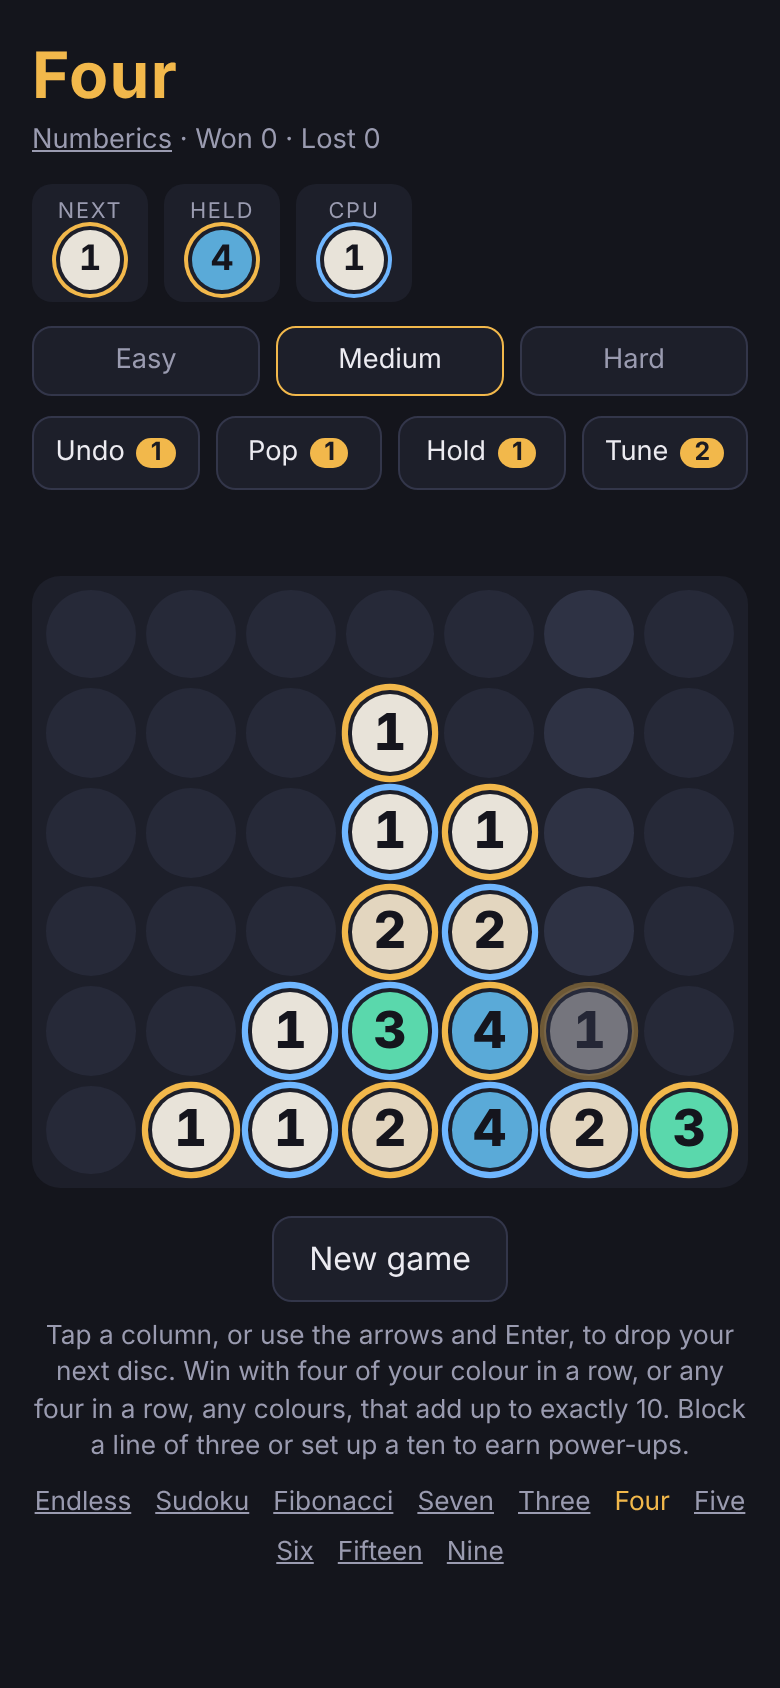
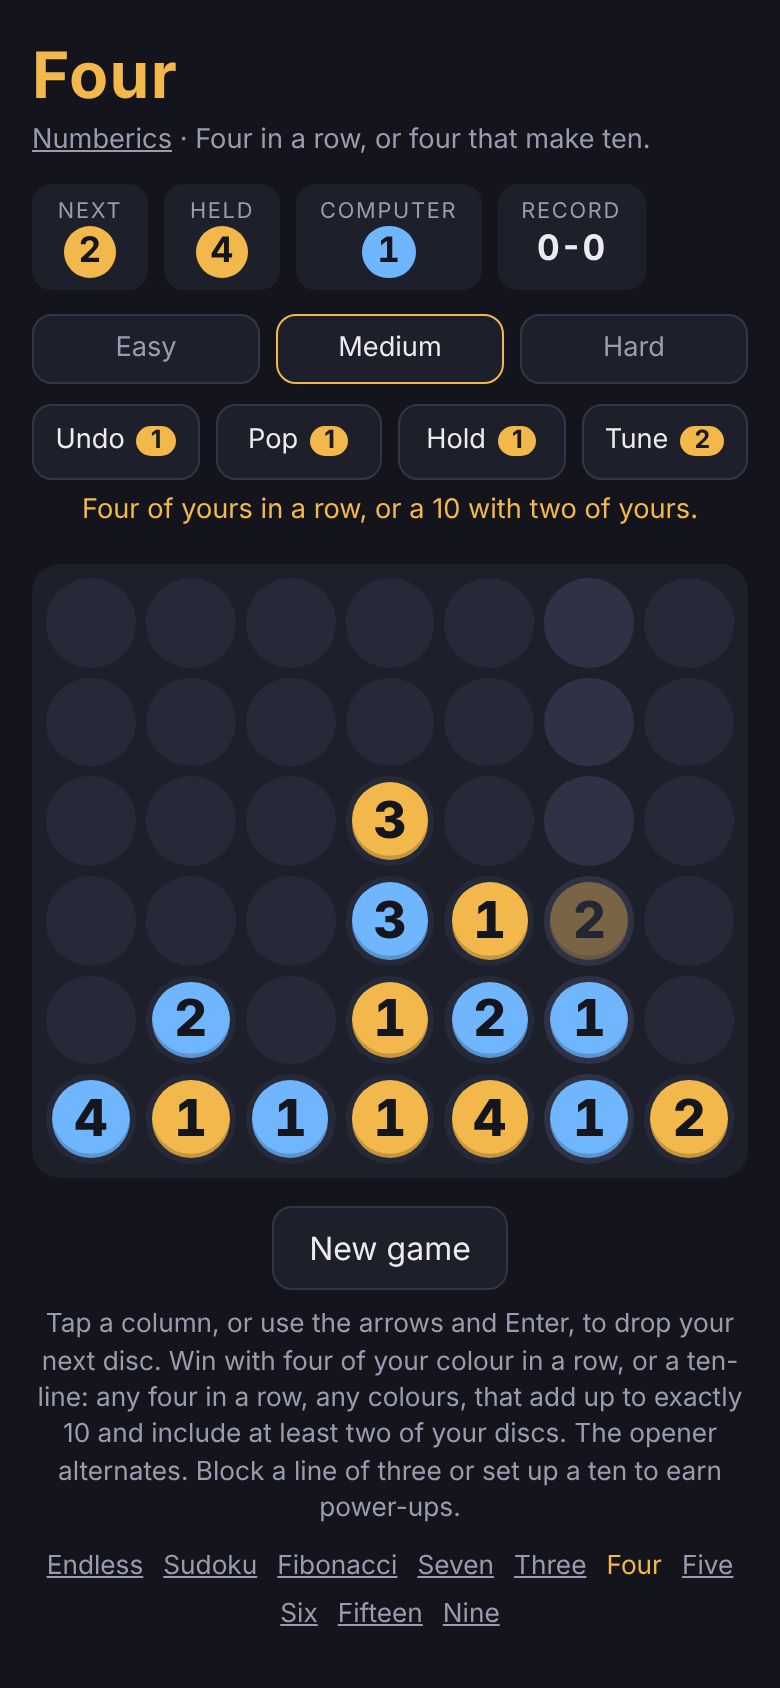
Four: round 1 fixes; DESIGN.md records round 1; all screenshots refreshed
Four: ten-lines need two of the completer's discs, owner-filled discs, clear
winning line, alternating opener, tuned levels (safe-move bot 68/44/29%),
keyboard Pop, R1/R5-R11. tools/measure-four.js reproduces the numbers.
Endless toast check follows the board-anchored toast.

diff --git a/tests/test-four.js b/tests/test-four.js
@@ -134,20 +134,20 @@ t("the computer takes an immediate ten-line", () => {
   const s = board([[0, 1, 1, 4], [0, 2, 2, 2], [0, 3, 1, 1]], { turn: 2, next: [1, 3] });
   for (const lv of ["easy", "medium", "hard"]) { s.level = lv; const r = F.computerTurn(s); eq(r.state.over && r.state.over.type, "ten", lv); eq(r.state.over.winner, 2); }
 });
-// blocks: Hard on every turn it is not loose; Easy and Medium play loose turns (tuned), so they are measured over seeds
+// blocks: Hard unless it blunders (a rare loose turn, tuned); Easy and Medium play loose turns (tuned), so they are measured over seeds
 function blockRate(s, lv, col) {
   let n = 0; for (let k = 0; k < 100; k++) { const x = JSON.parse(JSON.stringify(s)); x.level = lv; x.aiSeed = k * 7919 + 1;
     const r = F.computerTurn(x); if (r.actions[r.actions.length - 1].arg === col) n++; }
   return n / 100;
 }
-t("the computer blocks an immediate colour loss (Hard always, Medium mostly, Easy often)", () => {
+t("the computer blocks an immediate colour loss (Hard nearly always, Medium mostly, Easy often)", () => {
   const s = board([[0, 0, 1, 1], [1, 0, 1, 1], [2, 0, 1, 1], [0, 3, 2, 1], [0, 4, 2, 2]], { turn: 2, next: [1, 1] });
-  eq(blockRate(s, "hard", 0), 1, "hard"); ok(blockRate(s, "medium", 0) >= 0.75, "medium"); ok(blockRate(s, "easy", 0) >= 0.4, "easy");
+  ok(blockRate(s, "hard", 0) >= 0.9, "hard"); ok(blockRate(s, "medium", 0) >= 0.75, "medium"); ok(blockRate(s, "easy", 0) >= 0.4, "easy");
 });
 t("the computer blocks an immediate ten-line loss (the player holds the 3 it needs)", () => {
   // (0,1..3) = 4 2 1 needs a 3 at (0,4); (0,0) is filled so that is the only hole; two of them are the player's
   const s = board([[0, 0, 2, 1], [0, 1, 1, 4], [0, 2, 2, 2], [0, 3, 1, 1]], { turn: 2, next: [3, 1] });
-  eq(blockRate(s, "hard", 4), 1, "hard"); ok(blockRate(s, "medium", 4) >= 0.75, "medium"); ok(blockRate(s, "easy", 4) >= 0.4, "easy");
+  ok(blockRate(s, "hard", 4) >= 0.9, "hard"); ok(blockRate(s, "medium", 4) >= 0.75, "medium"); ok(blockRate(s, "easy", 4) >= 0.4, "easy");
 });
 t("Easy is deterministic by seed", () => {
   const run = seed => { let s = F.newGame(seed, { level: "easy" }), cols = [];
@@ -297,6 +297,26 @@ t("measure: Medium beats a random player almost always", () => {
     if (s.over.winner === 2) w++; }
   ok(w >= 26, "medium won " + w + "/30");
 });
+
+// Round 1 tuning target (TRIAGE1): a safe-move player (wins in one when it can, otherwise a random column that leaves
+// the computer no immediate line for its shown disc; no power-ups; the opener alternates) beats Easy >= 65%, Medium
+// 40-55%, Hard 20-35%. Measured over 400 games each (see the round 1 report); these are loose, fast guards.
+function safeBot(s, rs) {
+  const L = F.legal(s), n = s.next[0];
+  for (const c of L) if (F.linesAt(s.own, s.num, F.height(s.own, c) * C + c, 1, n).length) return [c, rs];
+  const safe = L.filter(c => { const own = s.own.slice(), num = s.num.slice(), h = F.height(own, c); own[h * C + c] = 1; num[h * C + c] = n;
+    for (let k = 0; k < C; k++) { const hk = F.height(own, k); if (hk < 6 && F.linesAt(own, num, hk * C + k, 2, s.next[1]).length) return false; } return true; });
+  const pool = safe.length ? safe : L, r = F.rand(rs); return [pool[Math.floor(r[0] * pool.length)], r[1]];
+}
+function botRate(lv, games) {
+  let w = 0, rs = 12345;
+  for (let g = 0; g < games; g++) { let s = F.newGame(1000 + g, { level: lv, first: g % 2 ? 2 : 1 });
+    while (!s.over) { if (s.turn === 1) { let c; [c, rs] = safeBot(s, rs); s = F.drop(s, c).state; } else s = F.computerTurn(s).state; }
+    if (s.over.winner === 1) w++; }
+  return w / games;
+}
+t("balance: a safe-move player beats Easy most of the time (target >= 65%)", () => { const r = botRate("easy", 200); ok(r >= 0.6, "easy " + r); });
+t("balance: a safe-move player beats Medium about half the time (target 40-55%)", () => { const r = botRate("medium", 60); ok(r >= 0.28 && r <= 0.65, "medium " + r); });
 
 require("./conventions")(t, ok, ["four/engine.js", "four/game.js", "four/index.html", "four/style.css"]);
 console.log(pass + " passed, " + fail + " failed");

diff --git a/tools/measure-four.js b/tools/measure-four.js
@@ -1,0 +1,28 @@
+/* SPDX-License-Identifier: Apache-2.0 | Copyright 2026 alvations (Melon Lab)
+ * Four difficulty measurement (safe-move bot vs each level).
+ * node tools/measure-four.js [games] [easy,medium,hard]   TUNE=<json> overrides level settings. */
+const F = require("../four/engine.js");
+const C = F.COLS; if (process.env.TUNE) { const t = JSON.parse(process.env.TUNE); for (const k in t) Object.assign(F._LV[k], t[k]); }
+// safe-move player: wins now if it can; else picks a column (seeded random, centre-weighted) after which the
+// computer's shown disc has no immediate win; random legal if none is safe. No power-ups.
+function winsAt(s, own, num, side, n) { for (const c of F.legal(s)) { const h = F.height(own, c); if (h < 6 && F.linesAt(own, num, h * C + c, side, n).length) return c; } return -1; }
+function safeBot(s, rs) {
+  const L = F.legal(s), n = s.next[0];
+  for (const c of L) { const h = F.height(s.own, c); if (F.linesAt(s.own, s.num, h * C + c, 1, n).length) return [c, rs]; }
+  const safe = L.filter(c => { const own = s.own.slice(), num = s.num.slice(), h = F.height(own, c); own[h * C + c] = 1; num[h * C + c] = n;
+    for (let k = 0; k < C; k++) { const hk = F.height(own, k); if (hk < 6 && F.linesAt(own, num, hk * C + k, 2, s.next[1]).length) return false; } return true; });
+  const pool = safe.length ? safe : L;
+  const r = F.rand(rs); return [pool[Math.floor(r[0] * pool.length)], r[1]];
+}
+const G = +process.argv[2] || 100, levels = (process.argv[3] || "easy,medium,hard").split(",");
+for (const lv of levels) {
+  let w = 0, l = 0, d = 0, ten = 0, len = 0, rs = 12345, worst = 0, t0 = Date.now();
+  for (let g = 0; g < G; g++) {
+    let s = F.newGame(1000 + g, { level: lv, first: g % 2 ? 2 : 1 });
+    while (!s.over) { if (s.turn === 1) { let c; [c, rs] = safeBot(s, rs); s = F.drop(s, c).state; }
+      else { const a = Date.now(); s = F.computerTurn(s).state; worst = Math.max(worst, Date.now() - a); } }
+    if (s.over.winner === 1) w++; else if (s.over.winner === 2) l++; else d++;
+    if (s.over.type === "ten") ten++; len += s.moves;
+  }
+  console.log(lv, "bot won", w, "lost", l, "drawn", d, "win%", (100 * w / G).toFixed(0), "ten%", (100 * ten / G).toFixed(0), "avg discs", (len / G).toFixed(1), "worst ms", worst, "total s", ((Date.now() - t0) / 1000).toFixed(0));
+}

diff --git a/four/game.js b/four/game.js
@@ -14,7 +14,7 @@
     { id: "hold", label: "Hold", desc: "Put your next disc aside, or swap it back." },
     { id: "tune", label: "Tune", desc: "Choose your next disc's number." },
   ];
-  var RULE = "Four of your colour in a row, or any four in a row that sum to 10 with two of yours.";
+  var RULE = "Four of yours in a row, or a 10 with two of yours.";
   var NAMES = { undo: "Undo", pop: "Pop", hold: "Hold", tune: "Tune" };
   var LEVEL_NAMES = { easy: "Easy", medium: "Medium", hard: "Hard" };
 
@@ -104,7 +104,7 @@
   function renderHint() {
     var h = $("hint"); h.textContent = "";
     if (note) { h.textContent = note; return; }
-    if (targeting && targeting.name === "pop") { h.textContent = "Tap a disc to pop it, or arrows and Enter. (Esc cancels)"; return; }
+    if (targeting && targeting.name === "pop") { h.textContent = "Tap a disc to pop it. Arrows, Enter; Esc cancels."; return; }
     if (targeting && targeting.name === "tune") {
       h.appendChild(document.createTextNode("Your next disc becomes:"));
       var box = document.createElement("span"); box.className = "pick";
@@ -279,7 +279,7 @@
   // Screenshot hook (tools/shots.cjs): a fixed, representative mid-game. Not reachable from the UI.
   window.__demo = function () {
     clearTimeout(cpuTimer); cpuTimer = null; targeting = null;
-    var s = F.newGame(2046, { level: "medium" }), mine = [3, 1, 3, 4, 3, 6, 4];
+    var s = F.newGame(2051, { level: "medium" }), mine = [3, 1, 3, 4, 3, 6, 4]; // a seed whose whole line plays out
     for (var k = 0; k < mine.length && !s.over; k++) {
       var r = F.drop(s, mine[k]); if (!r.ok || r.state.over) break; s = r.state;
       if (s.turn === 2) { var t = F.computerTurn(s); if (t.state.over) break; s = t.state; }

diff --git a/four/engine.js b/four/engine.js
@@ -220,7 +220,7 @@
   // blunder: chance a loose turn ignores even that (any legal column). A win in one is always taken.
   // Tuned against a safe-move player (never leaves the computer an immediate line for its shown disc), see tests.
   var LV = { easy: { depth: 2, nodes: 3000, loose: 1, blunder: 0.5 }, medium: { depth: 6, nodes: 20000, loose: 0.85, blunder: 0.2 },
-             hard: { depth: 14, nodes: 40000, loose: 0.3, blunder: 0 } };
+             hard: { depth: 14, nodes: 40000, loose: 0.5, blunder: 0.15 } };
 
   function Search(own, num, toMove, masks, budget) {
     this.own = Int8Array.from(own); this.num = Int8Array.from(num);

diff --git a/docs/DESIGN.md b/docs/DESIGN.md
@@ -120,3 +120,34 @@ deviation from the plan with its reason. All measurements are seeded Node bot ru
 - Start: 1 Reveal (keeps the old Hint's job). Units pay once each, at most one charge per move, odds weighted
   Reveal 1 : Check 2 : Candidates 3 (equal odds and one per unit filled every slot to the cap).
 - Hard, easiest-cells-first solver: first charge at ~9% of cells, ~1.8 / 2.3 / 3.2 in stock at half way.
+
+---
+
+# QA round 1 (20 Nov 2026): what changed
+
+Reviews and decisions: `docs/reviews/REVIEW*1.md`, `TRIAGE1.md` (family rules R1-R11). Highlights, with numbers:
+
+- **Family:** Undo never crosses a decided result (R1); a power-up never earns one, even indirectly (R2); spent
+  information power-ups stay spent (R3); solved-game opponents lose to perfect play (R4); power-up buttons explain
+  themselves on tap (R5) and Undo is slot 1 everywhere; one header pattern (R6); one channel per event and neutral
+  warning toasts (R7); family end card with "New best." (R8); keyboard targeting everywhere (R9); two-step switches
+  (R10); naming (R11). The toast sits just inside the top of the board (never over the title or the games row).
+- **Sudoku:** earn by progress (each new multiple of 9 filled cells on a high-water mark): 4 / 5 / 6 charges per
+  Easy / Medium / Hard puzzle, revealing nothing about correctness; clock survives reloads.
+- **Fibonacci:** 111-degree hue step so merge neighbours differ; merge rule confirmed by a published write-up (spawn
+  odds still assumed). Award floor stays 34 (per move it already pays half as often as Endless).
+- **Seven:** overflow leaves the last well and rings the discs pushed out; Crack arms before firing; Undo counted.
+- **Three:** first-run explainer; a run made by a power-up collapses without paying, and so does the swipe after
+  Smash/Swap/Third; flush spacing unchanged (29.5 moves greedy, `tools/sim-three.js`).
+- **Four:** a ten-line needs at least two discs of the side completing it (`MINE = 2`); discs filled by owner; the
+  opener alternates; safe-move bot wins Easy 68%, Medium 44%, Hard 29% (`tools/measure-four.js`); ten-lines decide
+  51-59% of games; the computer earns power-ups only on Hard.
+- **Five:** the computer never uses power-ups; perfect play wins 100% on every level; Hard sets traps from lost
+  positions; greedy player wins Easy 86%, Medium 35%, Hard 0% (`EASY_CARE`, `MEDIUM_CARE = 0.4`).
+- **Six:** tray Undo, Hint, Skip, Peek; Show answer (ends the run, two-step); plain first line on every seed and Daily;
+  the exactness rule stated where it bites.
+- **Fifteen:** tiles filled by owner; a round won after Erase or Double (by that side) pays nothing; perfect play with
+  the starting Erase wins every Hard match; family round-end overlay keeps the winning triple.
+- **Nine:** Hard deals a losing start 1 time in 5 (`HARD_LOSING = 0.2`) and hides the live nim-sum; perfect play with
+  power-ups wins ~66-73% of Hard matches; Easy stays the default (beginner wins 75.6% on Easy, 2.5% on Medium); the
+  computer earns only Add and Pass.
